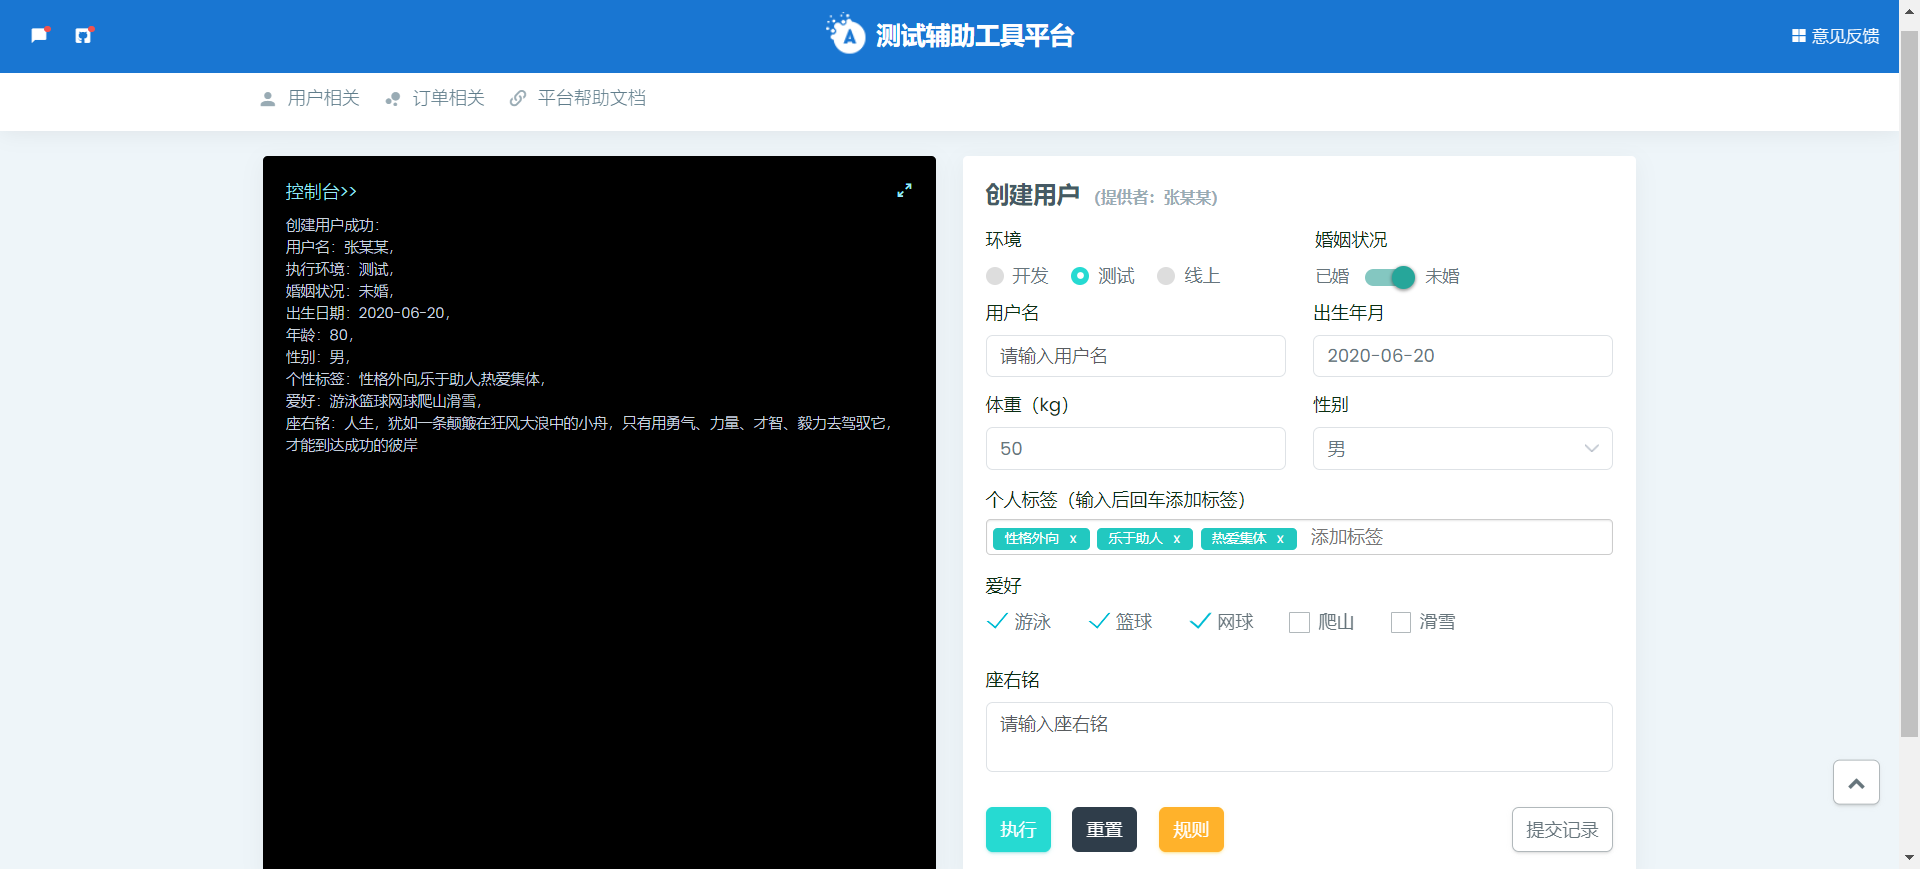
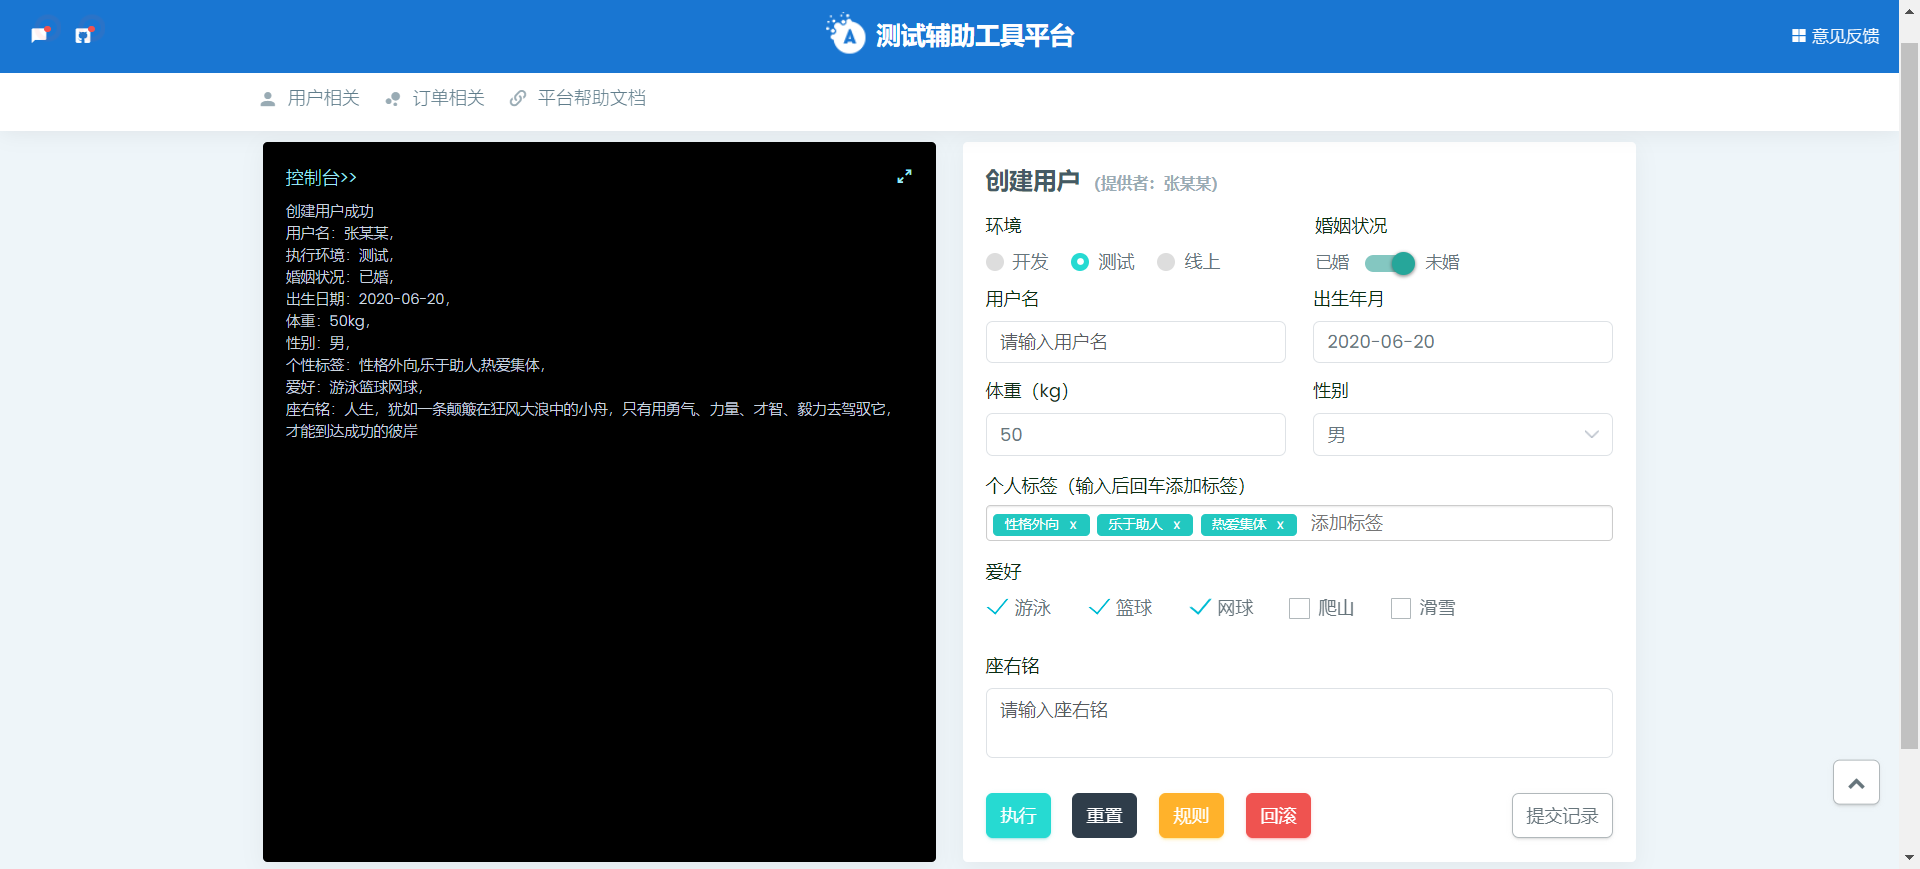
第一版

diff --git a/static/templates/create_user.html b/static/templates/create_user.html
@@ -135,12 +135,16 @@
                                         </div>
                                         <button type="submit" class="tst3 btn btn-success waves-effect waves-light m-r-15">执行</button>
                                         <button type="reset" class="btn btn-inverse waves-effect waves-light m-r-15">重置</button>
-                                        <button id="myButton2" type="button" class="btn btn-warning waves-effect waves-light" data-bs-toggle="modal"
+                                        <button id="myButton2" type="button" class="btn btn-warning waves-effect waves-light m-r-15" data-bs-toggle="modal"
                                                     data-bs-target="#exampleModal">规则
+                                        </button>
+                                        <button id="myButton2" type="button" class="btn btn-danger waves-effect waves-light" data-bs-toggle="modal"
+                                                    data-bs-target="#rollbackModal">回滚
                                         </button>
                                         <button style="float: right" id="myButton2" type="button" class="btn btn-secondary waves-effect waves-light" data-bs-toggle="modal"
                                                     data-bs-target="#recordList">提交记录
                                         </button>
+                                        <!--规则弹窗-->
                                         <div class="modal modal-blur fade" id="exampleModal" tabindex="-1" role="dialog" aria-hidden="true">
                                             <div class="modal-dialog modal-dialog-centered" role="document">
                                                 <div class="modal-content">
@@ -164,6 +168,7 @@
                                                 </div>
                                             </div>
                                         </div>
+                                        <!--提交记录弹窗-->
                                         <div class="modal modal-blur fade" id="recordList" tabindex="-1" role="dialog" aria-hidden="true">
                                             <div class="modal-dialog modal-xl modal-dialog-centered" role="document">
                                                 <div class="modal-content">
@@ -272,6 +277,32 @@
                                         </div>
                                     </form>
                                 </div>
+                            </div>
+                        </div>
+                    </div>
+                    <!--回滚弹窗-->
+                    <div class="modal modal-blur fade" id="rollbackModal" tabindex="-1" role="dialog" aria-hidden="true">
+                        <div class="modal-dialog modal-dialog-centered" role="document">
+                            <div class="modal-content">
+                                <div class="modal-header">
+                                    <h4 class="modal-title">记录回滚</h4>
+                                    <button type="button" class="btn-close" data-bs-dismiss="modal" aria-label="Close"></button>
+                                </div>
+
+                                <div class="modal-body">
+<!--                                    <p><h6 class="card-subtitle" style="color: #a94442">可通过提交记录，获取对应提交数据的ID</h6></p>-->
+                                    <form method="POST" action="{% url 'user:rollback_add_user' %}" autocomplete="off">
+                                        {% csrf_token %}
+                                        <div class="form-group">
+                                            <label class="title">提交记录ID</label>
+                                            <input type="text" class="form-control" placeholder="可通过提交记录，获取对应提交数据的ID" name="id" maxlength="20" required>
+                                        </div>
+                                        <div class="modal-footer">
+                                            <button type="submit" class="tst3 btn btn-danger waves-effect waves-light ">回滚</button>
+                                        </div>
+                                    </form>
+                                </div>
+
                             </div>
                         </div>
                     </div>

diff --git a/apps/user/user_views.py b/apps/user/user_views.py
@@ -1,8 +1,9 @@
 from django.shortcuts import render
 from django.http import HttpResponseRedirect
-from user.form import createUserForm, FeedbackForm
+from user.form import createUserForm, FeedbackForm, rollbackUserForm
 from user.models import CreateUserTable, FeedBackTable
 from utils.script.create_user_constructor import CreateUser
+from utils.script.create_user_rollback import RollbackCreateUser
 
 # Create your views here.
 
@@ -92,6 +93,43 @@ def add_user(request):
             'msg': result
         })
 
+def rollback_add_user(request):
+    """
+    根据ID回滚提交记录
+    :param request:
+    :return:
+    """
+    try:
+        if request.method == 'GET':
+            return render(request, 'create_user.html')
+        else:
+            rollback_user_form = rollbackUserForm(request.POST)
+            if rollback_user_form.is_valid():
+                id = rollback_user_form.cleaned_data['id']
+                # 调用业务核心脚本
+                try:
+                    record = CreateUserTable.objects.get(id=id)
+                except:
+                    record = False
+                if record:
+                    result = RollbackCreateUser.rollback_user(record.id, record.environment, record.user_name)
+                    CreateUserTable.objects.filter(id=id).update(is_rollback=1)
+                else:
+                    return render(request, 'create_user.html', {
+                        'msg': f'未找到ID={id}的提交记录'
+                    })
+                return render(request, 'create_user.html', {
+                    'msg': result
+                })
+            else:
+                return render(request, 'create_user.html', {
+                    'rollback_user_form': rollback_user_form
+                })
+    except:
+        return render(request, 'create_user.html', {
+            'msg': result
+        })
+
 def create_user_list(request):
     users_list_dev = user_list_to_env('开发')
     users_list_test = user_list_to_env('测试')
@@ -117,7 +155,7 @@ def user_list_to_env(env):
         id += 1
         user_list.append(
             {
-                'id': id,
+                'id': user.id,
                 'user_name': user.user_name,
                 'interest': user.interest,
                 'personality_label': user.personality_label,

diff --git a/utils/script/create_user_rollback.py b/utils/script/create_user_rollback.py
@@ -1,0 +1,41 @@
+#!/usr/bin/env python
+# -*- coding:utf-8 -*-
+
+# *********************************************************#
+# @@Author: 张某某
+# @@Create Date: 20xx年xx月xx日
+# @@Modify Date: 20xx年xx月xx日
+# @@Description: 创建用户回滚
+# *********************************************************#
+
+from utils.public.log import Log
+
+class RollbackCreateUser(object):
+    """
+    回滚创建用户
+    """
+
+    @staticmethod
+    def rollback_user(id, env, user_name):
+        """
+        本功能无具体业务，只是个模板例子
+        """
+        try:
+            Log().info(id)
+            Log().info(env)
+            Log().info(user_name)
+            info = f'记录ID：{id}，\n' \
+                   f'执行环境：{env}，\n' \
+                   f'用户名：{user_name}'
+            result = f'回滚成功\n' \
+                     f'{info}'
+        except Exception as e:
+            result = f'回滚记录ID={id}失败\n' \
+                     f'{e}'
+        finally:
+            Log().info(result)
+            return result
+
+
+if __name__ == "__main__":
+    RollbackCreateUser.rollback_user()

diff --git a/apps/user/models.py b/apps/user/models.py
@@ -32,6 +32,7 @@ class CreateUserTable(models.Model):
     personality_label = models.CharField(max_length=100, null=True, verbose_name='个性标签')
     interest = models.CharField(max_length=100, null=True, verbose_name='爱好')
     motto = models.TextField(null=True, verbose_name='座右铭')
+    is_rollback = models.BooleanField(null=True,default=False, verbose_name='是否回滚')
     create_time = models.DateTimeField(auto_now=True, verbose_name='创建时间')
     update_time = models.DateTimeField(auto_now=True, verbose_name='更新时间')
     create_by = models.CharField(max_length=10, null=True, default='sys', verbose_name='创建人')

diff --git a/utils/script/create_user_constructor.py b/utils/script/create_user_constructor.py
@@ -30,10 +30,11 @@ class CreateUser(object):
                    f'个性标签：{personality_label}，\n' \
                    f'爱好：{interest}，\n' \
                    f'座右铭：{motto}'
-            result = f'创建用户成功：\n' \
+            result = f'创建用户成功\n' \
                      f'{info}'
         except Exception as e:
-            result = f'创建用户失败，{e}'
+            result = f'创建用户失败\n' \
+                     f'{e}'
         finally:
             Log().info(result)
             return result

diff --git a/apps/user/urls.py b/apps/user/urls.py
@@ -14,10 +14,11 @@ Including another URLconf
     2. Add a URL to urlpatterns:  url(r'^blog/', include(blog_urls))
 """
 from django.conf.urls import include, url
-from .user_views import add_user, feedback
+from .user_views import add_user, feedback, rollback_add_user
 
 
 urlpatterns = [
     url(r'^adduser/$', add_user, name='add_user'),
+    url(r'^rollback_adduser/$', rollback_add_user, name='rollback_add_user'),
     url(r'^feedback/$', feedback, name='feedback'),
 ]

diff --git a/apps/user/form.py b/apps/user/form.py
@@ -37,3 +37,9 @@ class createUserForm(forms.Form):
     motto = forms.CharField(max_length=1000, required=False, error_messages={
         'max_length': '座右铭最大长度为1000',
     })
+
+class rollbackUserForm(forms.Form):
+    """
+    回滚创建用户
+    """
+    id = forms.IntegerField(required=True)
